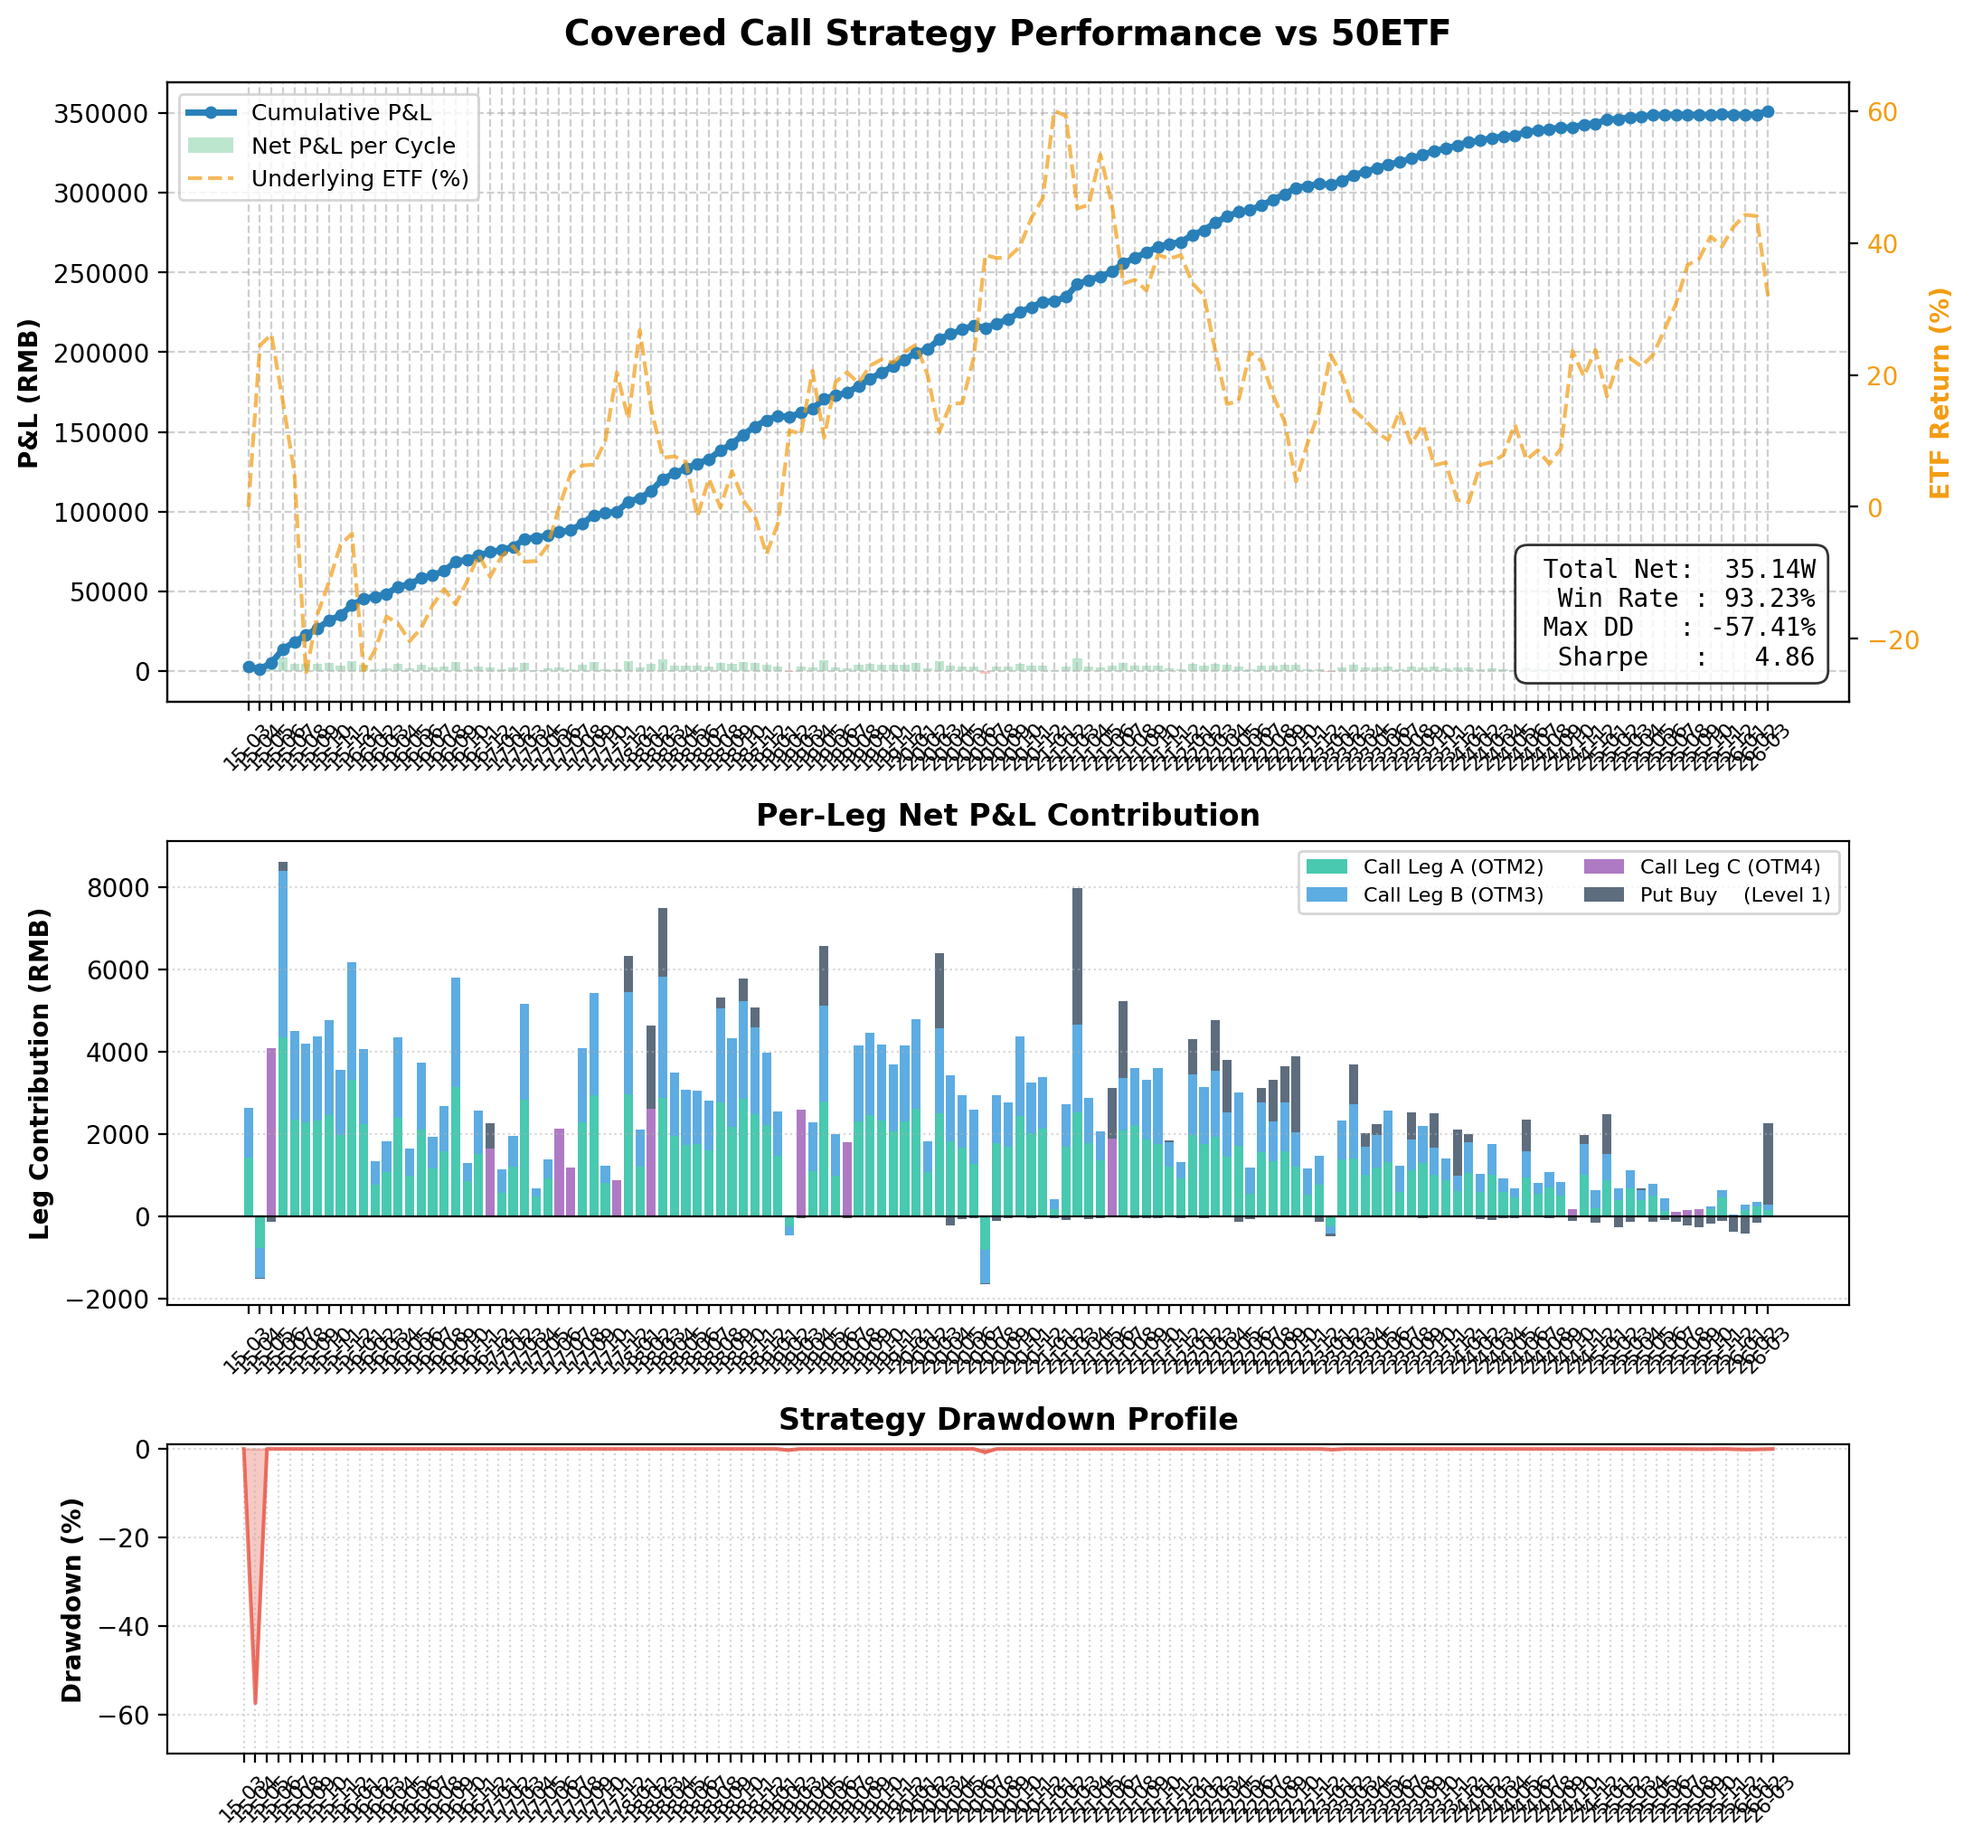
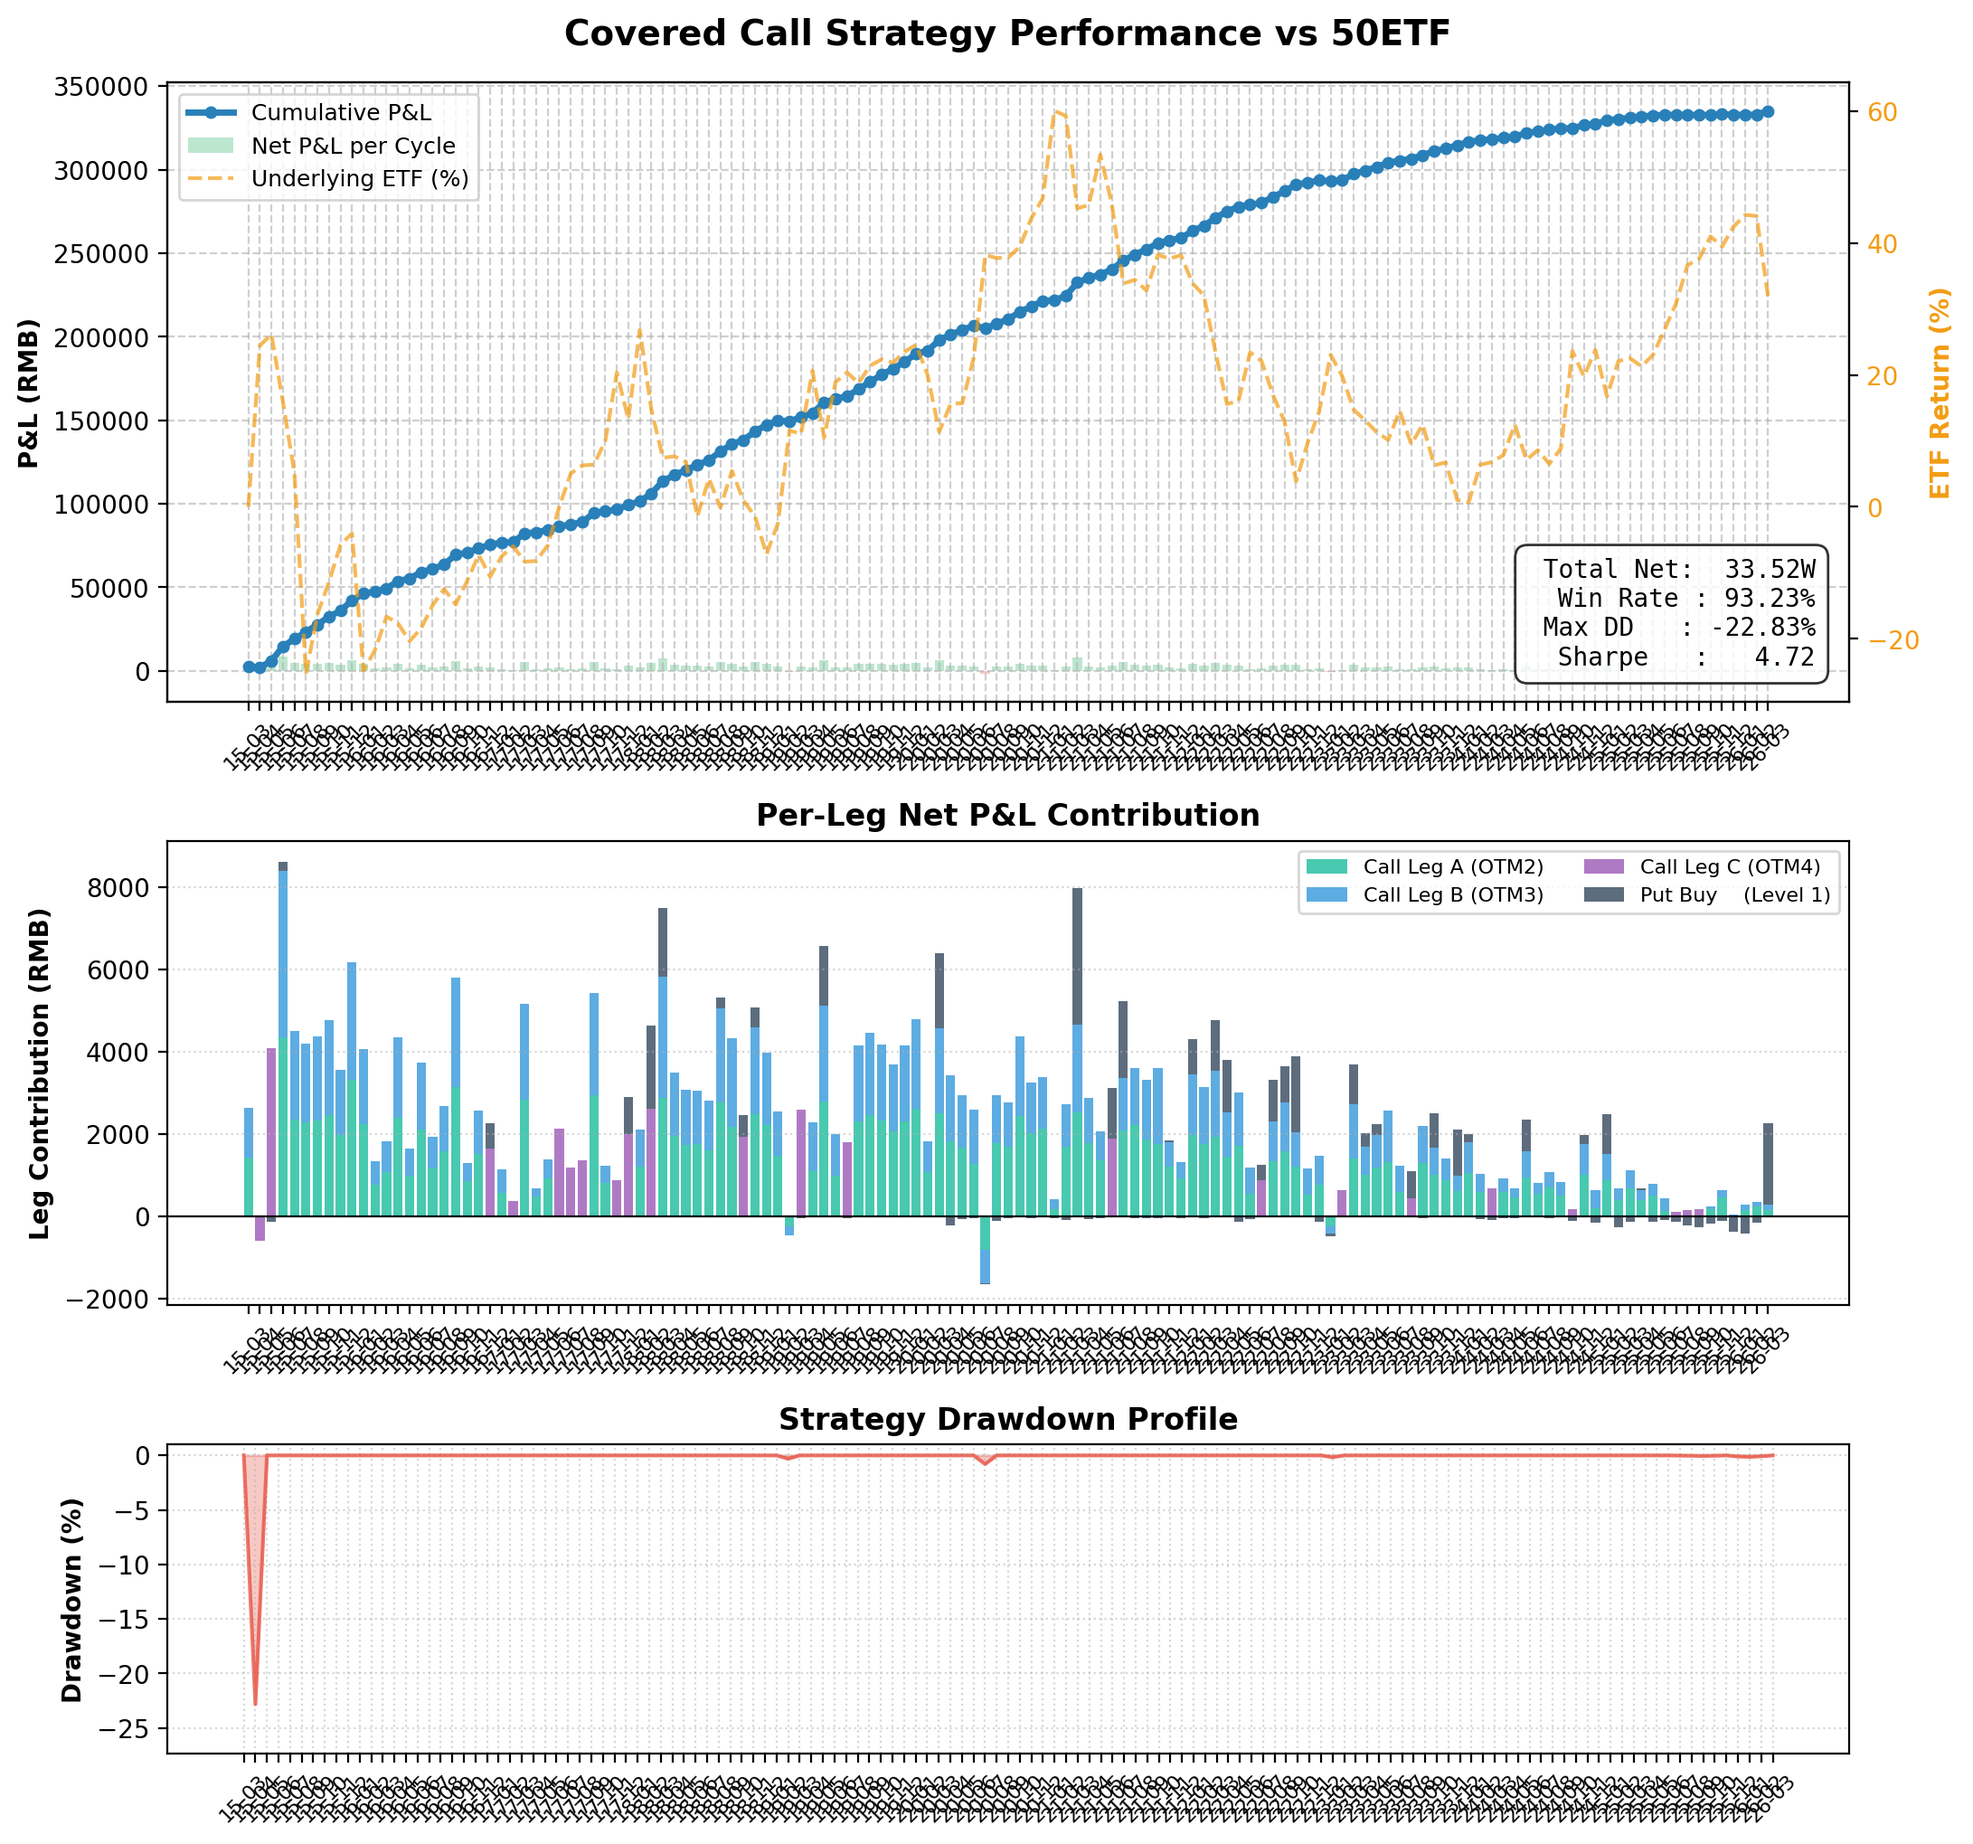
Process

diff --git a/backtest_covered_call.py b/backtest_covered_call.py
@@ -531,8 +531,9 @@ def calc_cycle_pnl(cyc, opt, etf, daily_ivs):
 
     filter_passed = False
     if pd.notna(rsi) and pd.notna(bbu):
-        # Filter: RSI < 66 AND Close < Upper Bollinger Band
-        filter_passed = (rsi < 66.0) and (etf_close_entry < bbu)
+        # Filter: RSI < 62 AND Close < Upper Bollinger Band
+        rsi_threshold = 62.0 if etf_choice == "50" else 66.0
+        filter_passed = (rsi < rsi_threshold) and (etf_close_entry < bbu)
 
     # 3. Constant Sizing
     num_contracts = NUM_CONTRACTS
@@ -797,11 +798,11 @@ def plot_backtest_results(results, etf, out_path):
 
 if __name__ == "__main__":
     # Handle command line argument for ETF choice
-    choice = "300"
+    etf_choice = "300"
     if len(sys.argv) > 1:
-        choice = sys.argv[1]
+        etf_choice = sys.argv[1]
     
-    select_underlying(choice)
+    select_underlying(etf_choice)
     
     # Redirect output to log file
     log_file = f"backtest_covered_call_{ETF_NAME}.log"
